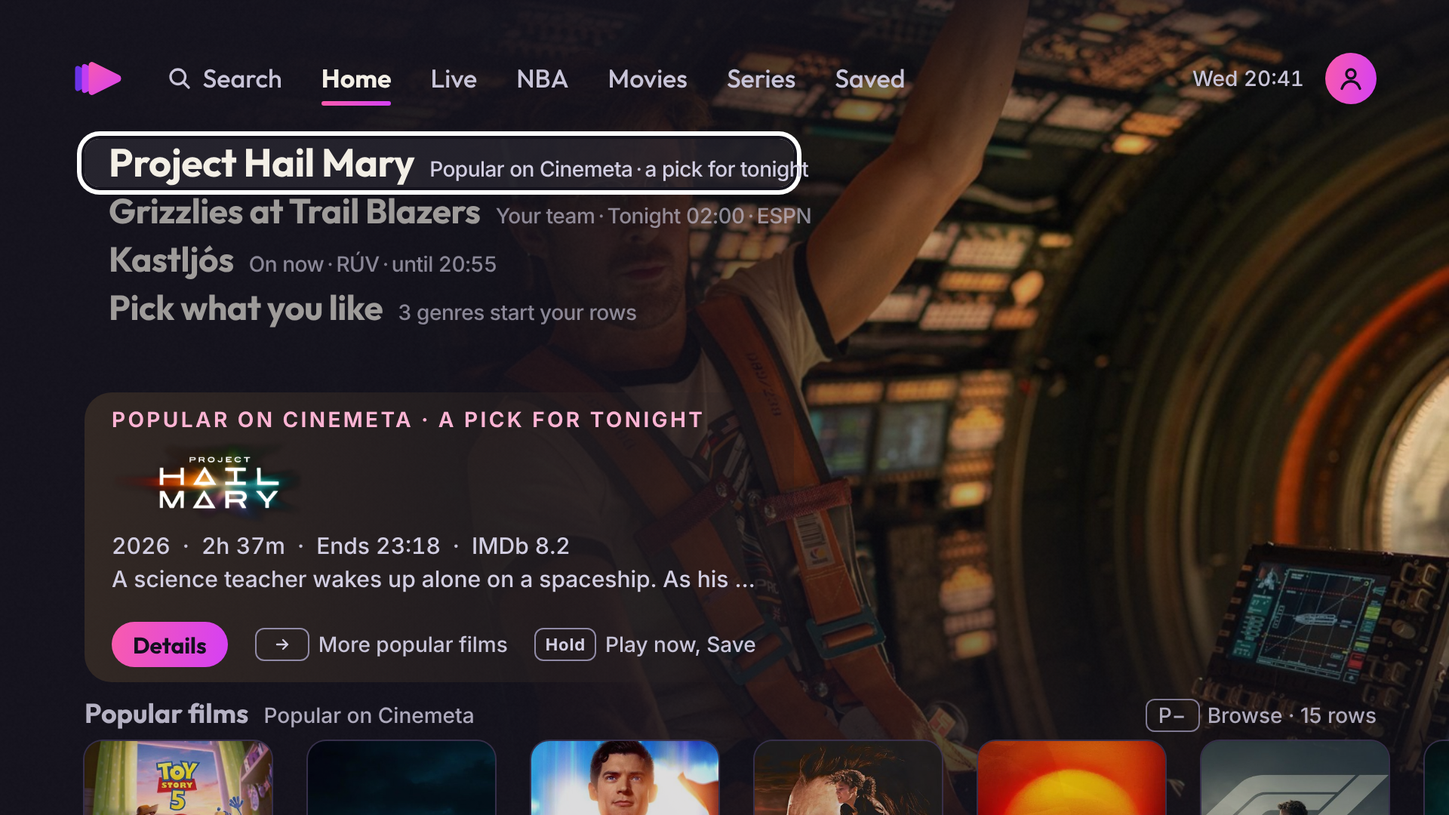
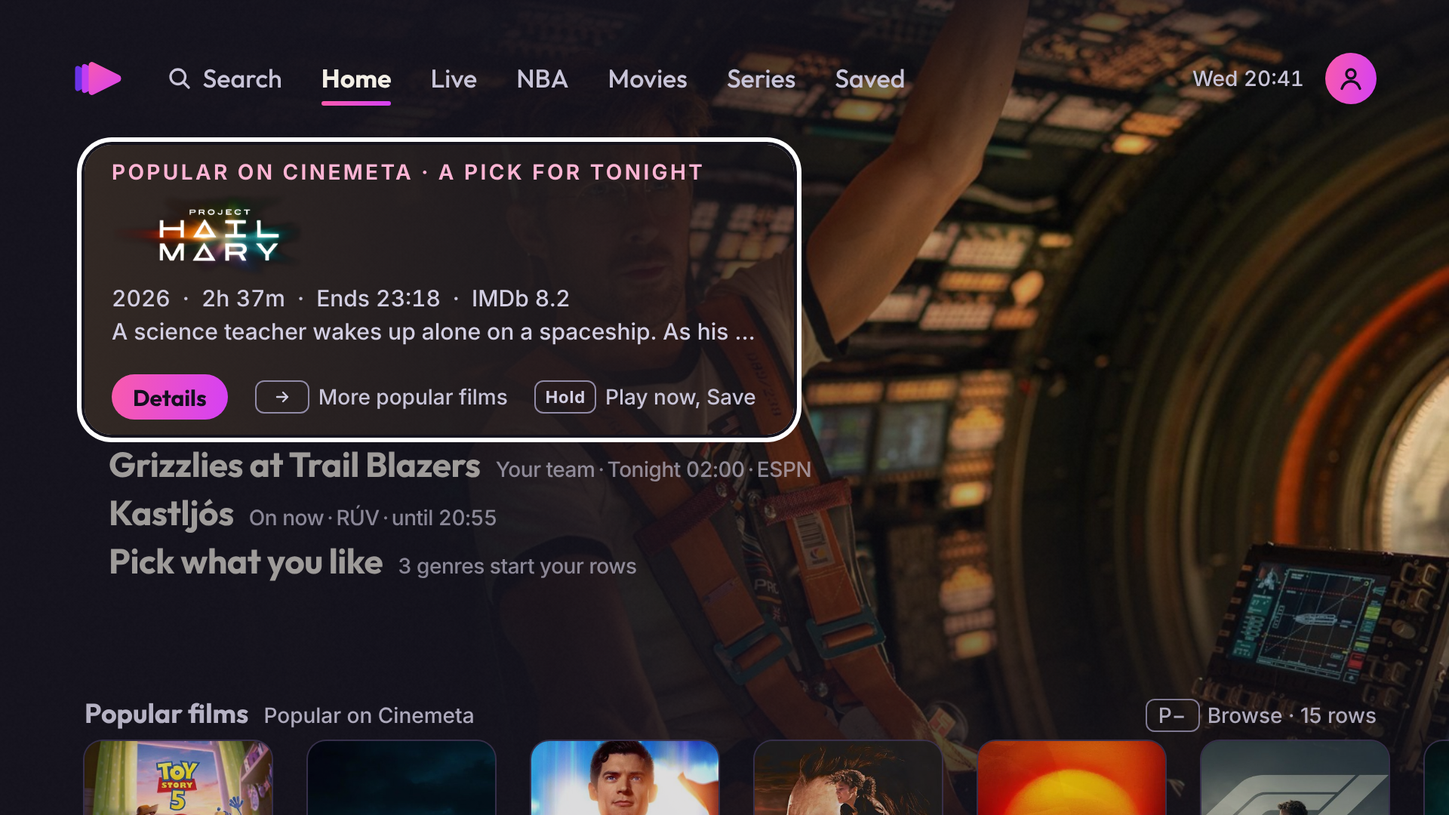
Home final v1.1: the lit line opens into its card in place (the owner's call); the lines below move a fixed 168 px with a 200 ms transform, so nothing jumps

Changed region(s): [[0.0312, 0.1528, 0.5625, 0.8556], [0.1875, 0.7639, 0.3438, 0.825], [0.375, 0.7639, 0.5312, 0.825]]

diff --git a/design/ui-v1/home-final/tools/build.js b/design/ui-v1/home-final/tools/build.js
@@ -35,31 +35,30 @@ const picture = (art, pos, capa) => `<div class="hf-bd" style="--pos:${pos}"><im
 <div class="hf-cap" style="--capa:${capa}"></div><div class="hf-sx"></div><div class="hf-sy"></div><div class="hf-st"></div><div class="hf-grain"></div>\n`;
 
 const line = (name, facts, on = false, sharp = false) => `  <div class="e${on ? ' on' : ''}${sharp ? ' sharp' : ''}"><div class="t">${name}<small>${facts}</small></div></div>\n`;
-const plateL = (o) => `<div class="plate-l${o.sharp ? ' sharp' : ''}" style="--ambt:${o.ambt}">
+const card = (o) => `  <div class="e on${o.sharp ? ' sharp' : ''}" style="--ambt:${o.ambt}">
   <div class="ey">${o.ey}</div>
   ${o.logo ? `<img class="logo" src="art/${o.logo}-logo.png" alt="${o.title}">` : `<div class="big${o.long ? ' long' : ''}">${o.title}</div>`}
   <div class="meta">${o.meta}</div>
   ${o.line ? `<div class="line">${o.line}</div>` : ''}
   ${o.p ? `<div class="bar" style="--p:${o.p}"><i></i></div>` : ''}
   <div class="hint">${o.hint}</div>
-</div>\n`;
+  </div>\n`;
 const firstPeek = (title, sub, cards) => `<div class="peek first"><div class="rt">${title}<span>${sub}</span><span class="pk"><span class="k">P−</span>Browse · 15 rows</span></div><div class="cards">${cards.join('')}</div></div>\n`;
 
 // ---------------------------------------------------------------- 1. a normal evening (Wed 20:41)
-const LINES = (lit) => [
+const LINES = (lit, cardHtml) => [
   ['Severance', `Continue${dot}S2 · E3${dot}21 min left`],
   ['Slow Horses', `New this week${dot}S6 · E4<span class="count">3 new</span>`],
   ['Breaking Bad', `Up next${dot}S3 · E7`],
   ['Heat', `A film for tonight${dot}ends ${ends('20:41', 170)}${dot}4K`],
   ['Grizzlies at Trail Blazers', `Tonight${dot}02:00${dot}ESPN`],
-].map(([n, f], i) => line(n, f, i === lit)).join('');
+].map(([n, f], i) => (i === lit ? cardHtml : line(n, f))).join('');
 
 const evening = () => head('Home, a normal evening') + `<div class="hf-amb" style="--amb:#3B5247"></div>` +
-picture('severance', '78% 30%', cap('severance', 0.30)) + topbar({ clock: 'Wed 20:41' }) + `<div class="lineup">\n${LINES(0)}</div>\n` +
-plateL({ ambt: 'rgba(59,82,71,.6)', ey: 'Continue watching', logo: 'severance', title: 'Severance',
+picture('severance', '78% 30%', cap('severance', 0.30)) + topbar({ clock: 'Wed 20:41' }) + `<div class="lineup">\n${LINES(0, card({ ambt: 'rgba(59,82,71,.6)', ey: 'Continue watching', logo: 'severance', title: 'Severance',
   meta: `<span>S2 · E3</span>${dot}<span>Who Is Alive?</span>${dot}<span>21 min left</span>${dot}<span>Ends ${ends('20:41', 21)}</span><span class="badge">4K</span>`,
   line: 'Mark, Helly, Irving and Dylan search for answers.', p: '57%',
-  hint: `<span class="pill">${PLAY}Resume</span><span>${ARROW_R}Episodes</span><span><span class="k">Hold</span>Start over, Details</span>` }) +
+  hint: `<span class="pill">${PLAY}Resume</span><span>${ARROW_R}Episodes</span><span><span class="k">Hold</span>Start over, Details</span>` }))}</div>\n` +
 firstPeek('Comedy for you', 'Because you watch Always Sunny, The Office and 12 more', ['niceguys', 'gemstones', 'hotfuzz', 'friendship', 'wwdits', 'gamenight', 'palmsprings'].map((f) => poster(f))) + foot;
 
 // ---------------------------------------------------------------- shared: the rows state
@@ -117,11 +116,12 @@ const gameNight = () => head('Home, game night', `
 <div class="crest c2"><img src="art/por.png" alt=""><div class="n"><b>Trail Blazers</b><span>1-3 · as of tip-off</span></div></div>
 <div class="score"><div class="clock"><span class="q">ON NOW</span></div><div class="plate"><span class="s">${EYE}Score hidden</span></div></div>
 <div class="lineup">
-${line('Grizzlies at Trail Blazers', `Game night${dot}<span class="live">Live</span>`, true, true)}${line('Severance', `Continue${dot}S2 · E3${dot}21 min left`)}${line('Slow Horses', `New this week${dot}S6 · E4<span class="count">3 new</span>`)}${line('It’s Always Sunny', `Short${dot}S18 · E10${dot}25 min`)}${line('Nuggets at Thunder', `Also live${dot}Prime Video`)}</div>
-` + plateL({ sharp: true, ambt: 'rgba(18,23,63,.7)', ey: `Game night <span class="live">Live</span>`, title: 'Grizzlies at Trail Blazers', long: true,
+` + card({ sharp: true, ambt: 'rgba(18,23,63,.7)', ey: `Game night <span class="live">Live</span>`, title: 'Grizzlies at Trail Blazers', long: true,
   meta: `<span>On now</span>${dot}<span>ESPN</span><span class="badge">4K</span>${dot}${EYE}<span>Score hidden</span>`,
   line: '3rd in the West · 3 in a row · Morant 27.8 · as of tip-off',
   hint: `<span class="pill">${PLAY}Watch live</span><span>${ARROW_R}From tip-off</span><span><span class="k">Hold</span>Reveal, more</span>` }) +
+`${line('Severance', `Continue${dot}S2 · E3${dot}21 min left`)}${line('Slow Horses', `New this week${dot}S6 · E4<span class="count">3 new</span>`)}${line('It’s Always Sunny', `Short${dot}S18 · E10${dot}25 min`)}${line('Nuggets at Thunder', `Also live${dot}Prime Video`)}</div>
+` +
 firstPeek('Tonight in the NBA', '6 games · 1 live · 2 final · 3 later', [gameCard({ mine: true, ta: '#5D76A9', st: 'Your team · live', a: 'mem', an: 'Grizzlies', sep: 'at', h: 'por', hn: 'Blazers', ch: 'ESPN · 4K', pl: 'Score hidden' }), gameCard({ ta: '#FEC524', st: 'Live', a: 'den', an: 'Nuggets', sep: 'at', h: 'okc', hn: 'Thunder', ch: 'Prime Video', pl: '3RD' }), gameCard({ ta: '#BA9653', st: 'Final', a: 'bos', an: 'Celtics', sep: 'at', h: 'ny', hn: 'Knicks', ch: '', pl: '112 – 104' })]) + foot;
 
 // ---------------------------------------------------------------- 5. the library: Movies, Comedy, scrolled deep (#313 is the first cell of its row: 313 = 52 x 6 + 1)
@@ -136,11 +136,12 @@ const library = () => head('Movies: Comedy, scrolled deep', `.grid { --gy: -96px
 // ---------------------------------------------------------------- 6. cold start: a new user, no history (the meta shortened by the rule: year · length · Ends · rating)
 const coldStart = () => head('Home, first evening: no history yet') + `<div class="hf-amb" style="--amb:#4A3A2A"></div>` + picture('hailmary', '60% 30%', cap('hailmary', 0.30)) + topbar({ clock: 'Wed 20:41' }) + `
 <div class="lineup">
-${line('Project Hail Mary', `Popular on Cinemeta${dot}a pick for tonight`, true)}${line('Grizzlies at Trail Blazers', `Your team${dot}Tonight 02:00${dot}ESPN`)}${line('Kastljós', `On now${dot}RÚV${dot}until 20:55`)}${line('Pick what you like', `3 genres start your rows`)}</div>
-` + plateL({ ambt: 'rgba(74,58,42,.55)', ey: 'Popular on Cinemeta · a pick for tonight', logo: 'hailmary', title: 'Project Hail Mary',
+` + card({ ambt: 'rgba(74,58,42,.55)', ey: 'Popular on Cinemeta · a pick for tonight', logo: 'hailmary', title: 'Project Hail Mary',
   meta: `<span>2026</span>${dot}<span>2h 37m</span>${dot}<span>Ends ${ends('20:41', 157)}</span>${dot}<span>IMDb 8.2</span>`,
   line: 'A science teacher wakes up alone on a spaceship. As his memory returns, he uncovers an impossible task.',
   hint: `<span class="pill noicon">Details</span><span>${ARROW_R}More popular films</span><span><span class="k">Hold</span>Play now, Save</span>` }) +
+`${line('Grizzlies at Trail Blazers', `Your team${dot}Tonight 02:00${dot}ESPN`)}${line('Kastljós', `On now${dot}RÚV${dot}until 20:55`)}${line('Pick what you like', `3 genres start your rows`)}</div>
+` +
 firstPeek('Popular films', 'Popular on Cinemeta', ['toystory5', 'weapons', 'superman', 'onebattle', 'sinners', 'f1', 'mickey17'].map((f) => poster(f))) + foot;
 
 // ---------------------------------------------------------------- 7. the rows: Channels (a channel has no picture: its logo on a flat field)
@@ -199,7 +200,7 @@ peek('Comedy for you', 'Because you watch Always Sunny, The Office and 12 more',
 const pages = { '01-evening.html': evening(), '02-rows-comedy.html': rowsComedy(), '03-rows-blend.html': rowsBlend(), '04-game-night.html': gameNight(), '05-library-comedy.html': library(), '06-cold-start.html': coldStart(), '07-rows-channels.html': channel(), '08-loading-missing-art.html': loading(), '09-rows-continue.html': rowsContinue(), '10-rows-nba.html': rowsNba() };
 for (const [f, html] of Object.entries(pages)) fs.writeFileSync(path.join(root, f), html);
 fs.writeFileSync(path.join(root, 'tools', 'pages.json'), JSON.stringify([
-  { file: '01-evening.html', title: 'A normal evening', note: 'Wed 20:41 · the Marquee: five lines in fixed slots (the game is tonight), the lit line’s plate, the first row peeking; P− jumps to the rows' },
+  { file: '01-evening.html', title: 'A normal evening', note: 'Wed 20:41 · the Marquee: five lines (the game is tonight), the lit line open as its card in place, the first row peeking; P− jumps to the rows' },
   { file: '02-rows-comedy.html', title: 'The rows: Comedy for you', note: 'Down from the lineup · films and series together · the picture answers the poster · the row index on its backing' },
   { file: '03-rows-blend.html', title: 'The rows: Anime comedy', note: 'A blend row: two of his genres together, named plainly, marked New row for a week' },
   { file: '04-game-night.html', title: 'Game night', note: 'Thu 03:12 · Grizzlies at Trail Blazers live, shield on: ON NOW, no clock, records as of tip-off' },

diff --git a/design/ui-v1/home-final/home-final.css b/design/ui-v1/home-final/home-final.css
@@ -40,30 +40,24 @@ html, body { margin: 0; width: 960px; height: 540px; overflow: hidden; backgroun
 .count { display: inline-flex; align-items: center; height: 20px; padding: 0 8px; border-radius: 999px; background: var(--a-surface-2); color: var(--a-text-1); font: 650 12px/1 var(--a-font-text); margin-left: 8px; letter-spacing: .02em; }
 .dot { color: var(--a-text-3); margin: 0 2px; }
 
-/* ---- the lineup: six lines in fixed slots (pitch 38 from y 92), nothing moves on a press ---- */
+/* ---- the lineup: lines in fixed 32 px slots; the lit line opens into its card in place (fixed 192 px, so every press moves the lines below by the same 168 px, animated with a 200 ms transform) ---- */
 .lineup { left: 56px; top: 92px; width: 470px; display: flex; flex-direction: column; gap: 0; }
 .e { position: relative; height: 32px; box-sizing: border-box; padding: 2px 16px; border-radius: 10px; opacity: .62; display: flex; align-items: center; }
 .e .t { font: 700 23px/26px var(--a-font-display); color: var(--a-text-1); white-space: nowrap; letter-spacing: -.01em; display: flex; align-items: baseline; }
 .e .t small { font: 500 14px/18px var(--a-font-text); color: var(--a-text-2); margin-left: 10px; font-variant-numeric: tabular-nums; display: inline-flex; align-items: center; }
-.e.on { opacity: 1; box-shadow: var(--a-focus-ring); background: linear-gradient(90deg, var(--ambt, rgba(45,43,53,.7)), rgba(45,43,53,.5)); }
-.e.on .t { font-size: 26px; }
+.e.on { opacity: 1; display: block; height: 192px; margin: 4px 0; padding: 10px 18px; border-radius: 18px; box-shadow: var(--a-focus-ring); background: linear-gradient(90deg, var(--ambt, rgba(21,19,29,.45)), rgba(21,19,29,.22)); overflow: hidden; }
+.e.on .ey { font: 650 14px/16px var(--a-font-text); letter-spacing: .12em; text-transform: uppercase; color: var(--a-pink-text); display: flex; align-items: center; gap: 10px; white-space: nowrap; }
+.e.on .logo { display: block; height: 56px; max-width: 340px; width: auto; object-fit: contain; object-position: left center; margin: 6px 0 4px; }
+.e.on .big { font: 700 34px/40px var(--a-font-display); color: var(--a-text-1); margin: 8px 0 8px; letter-spacing: -.01em; white-space: nowrap; }
+.e.on .big.long { font-size: 30px; }
+.e.on .meta { display: flex; align-items: center; gap: 6px; font: 500 15px/20px var(--a-font-text); color: var(--a-text-2); white-space: nowrap; font-variant-numeric: tabular-nums; }
+.e.on .line { font: 500 15px/20px var(--a-font-text); color: var(--a-text-2); margin-top: 2px; max-width: 434px; white-space: nowrap; overflow: hidden; text-overflow: ellipsis; }
+.e.on .bar { width: 280px; height: 4px; border-radius: 2px; background: var(--a-surface-2); margin-top: 8px; overflow: hidden; }
+.e.on .bar i { display: block; height: 100%; width: var(--p, 40%); background: var(--a-grad); border-radius: 2px; }
+.e.on .hint { position: absolute; left: 18px; bottom: 10px; }
 .e.on.sharp { border-radius: 6px; transform: skewX(-12deg); transform-origin: bottom left; }
 .e.on.sharp > * { transform: skewX(12deg); }
-
-/* the lit line's plate: fixed at y 330-506, the card of whatever line is lit (logo ink 56, the facts, the verb) */
-.plate-l { left: 56px; top: 260px; width: 470px; height: 192px; box-sizing: border-box; padding: 10px 18px 10px; border-radius: 18px; background: linear-gradient(90deg, var(--ambt, rgba(21,19,29,.45)), rgba(21,19,29,.22)); }
-.plate-l .ey { font: 650 14px/16px var(--a-font-text); letter-spacing: .12em; text-transform: uppercase; color: var(--a-pink-text); display: flex; align-items: center; gap: 10px; white-space: nowrap; }
-.plate-l .logo { display: block; height: 56px; max-width: 340px; width: auto; object-fit: contain; object-position: left center; margin: 6px 0 4px; }
-.plate-l .big { font: 700 34px/40px var(--a-font-display); color: var(--a-text-1); margin: 8px 0 8px; letter-spacing: -.01em; white-space: nowrap; }
-.plate-l .big.long { font-size: 30px; }
-.plate-l .meta { display: flex; align-items: center; gap: 6px; font: 500 15px/20px var(--a-font-text); color: var(--a-text-2); white-space: nowrap; font-variant-numeric: tabular-nums; }
-.plate-l .line { font: 500 15px/20px var(--a-font-text); color: var(--a-text-2); margin-top: 2px; max-width: 434px; white-space: nowrap; overflow: hidden; text-overflow: ellipsis; }
-.plate-l .bar { width: 280px; height: 4px; border-radius: 2px; background: var(--a-surface-2); margin-top: 8px; overflow: hidden; }
-.plate-l .bar i { display: block; height: 100%; width: var(--p, 40%); background: var(--a-grad); border-radius: 2px; }
-.plate-l .hint { position: absolute; left: 18px; bottom: 10px; }
-.plate-l.sharp { border-radius: 6px; transform: skewX(-12deg); transform-origin: bottom left; }
-.plate-l.sharp > * { transform: skewX(12deg); }
-.plate-l.sharp .hint { left: 30px; }
+.e.on.sharp .hint { left: 30px; }
 .more { right: 48px; bottom: 36px; display: flex; align-items: center; gap: 8px; font: 500 14px/18px var(--a-font-text); color: var(--a-text-3); white-space: nowrap; }
 .more.left { right: auto; left: 56px; bottom: 20px; }
 .more svg { width: 16px; height: 16px; fill: none; stroke: currentColor; stroke-width: 2.2; stroke-linecap: round; stroke-linejoin: round; flex: none; }

diff --git a/design/ui-v1/home-final/04-game-night.html b/design/ui-v1/home-final/04-game-night.html
@@ -21,19 +21,18 @@
 <div class="crest c2"><img src="art/por.png" alt=""><div class="n"><b>Trail Blazers</b><span>1-3 · as of tip-off</span></div></div>
 <div class="score"><div class="clock"><span class="q">ON NOW</span></div><div class="plate"><span class="s"><svg class="eyeoff" viewBox="0 0 24 24"><path d="M3 3l18 18M10.6 5.2A9.8 9.8 0 0 1 12 5c5 0 8.5 4.2 9.5 7a13 13 0 0 1-2.4 3.7M6.4 6.6A13 13 0 0 0 2.5 12c1 2.8 4.5 7 9.5 7a9.6 9.6 0 0 0 4-.9M9.9 9.9a3 3 0 0 0 4.2 4.2"/></svg>Score hidden</span></div></div>
 <div class="lineup">
-  <div class="e on sharp"><div class="t">Grizzlies at Trail Blazers<small>Game night<span class="dot">·</span><span class="live">Live</span></small></div></div>
-  <div class="e"><div class="t">Severance<small>Continue<span class="dot">·</span>S2 · E3<span class="dot">·</span>21 min left</small></div></div>
-  <div class="e"><div class="t">Slow Horses<small>New this week<span class="dot">·</span>S6 · E4<span class="count">3 new</span></small></div></div>
-  <div class="e"><div class="t">It’s Always Sunny<small>Short<span class="dot">·</span>S18 · E10<span class="dot">·</span>25 min</small></div></div>
-  <div class="e"><div class="t">Nuggets at Thunder<small>Also live<span class="dot">·</span>Prime Video</small></div></div>
-</div>
-<div class="plate-l sharp" style="--ambt:rgba(18,23,63,.7)">
+  <div class="e on sharp" style="--ambt:rgba(18,23,63,.7)">
   <div class="ey">Game night <span class="live">Live</span></div>
   <div class="big long">Grizzlies at Trail Blazers</div>
   <div class="meta"><span>On now</span><span class="dot">·</span><span>ESPN</span><span class="badge">4K</span><span class="dot">·</span><svg class="eyeoff" viewBox="0 0 24 24"><path d="M3 3l18 18M10.6 5.2A9.8 9.8 0 0 1 12 5c5 0 8.5 4.2 9.5 7a13 13 0 0 1-2.4 3.7M6.4 6.6A13 13 0 0 0 2.5 12c1 2.8 4.5 7 9.5 7a9.6 9.6 0 0 0 4-.9M9.9 9.9a3 3 0 0 0 4.2 4.2"/></svg><span>Score hidden</span></div>
   <div class="line">3rd in the West · 3 in a row · Morant 27.8 · as of tip-off</div>
   
   <div class="hint"><span class="pill"><svg viewBox="0 0 24 24"><path d="M6 4l14 8-14 8z"/></svg>Watch live</span><span><span class="k"><svg viewBox="0 0 24 24"><path d="M5 12h14M13 6l6 6-6 6"/></svg></span>From tip-off</span><span><span class="k">Hold</span>Reveal, more</span></div>
+  </div>
+  <div class="e"><div class="t">Severance<small>Continue<span class="dot">·</span>S2 · E3<span class="dot">·</span>21 min left</small></div></div>
+  <div class="e"><div class="t">Slow Horses<small>New this week<span class="dot">·</span>S6 · E4<span class="count">3 new</span></small></div></div>
+  <div class="e"><div class="t">It’s Always Sunny<small>Short<span class="dot">·</span>S18 · E10<span class="dot">·</span>25 min</small></div></div>
+  <div class="e"><div class="t">Nuggets at Thunder<small>Also live<span class="dot">·</span>Prime Video</small></div></div>
 </div>
 <div class="peek first"><div class="rt">Tonight in the NBA<span>6 games · 1 live · 2 final · 3 later</span><span class="pk"><span class="k">P−</span>Browse · 15 rows</span></div><div class="cards"><div class="gc" style="--ta:#5D76A9"><div class="ed"></div><div class="st mine">Your team · live</div>
   <div class="tm"><span class="cr"><img src="art/mem.png" alt=""></span><b>Grizzlies</b><span class="vs">at</span><span class="cr"><img src="art/por.png" alt=""></span><b>Blazers</b></div>

diff --git a/design/ui-v1/home-final/01-evening.html b/design/ui-v1/home-final/01-evening.html
@@ -11,19 +11,18 @@
   <div class="tb-r"><span>Wed 20:41</span><span class="avatar"><svg viewBox="0 0 24 24"><circle cx="12" cy="8" r="4"/><path d="M4 21c1.4-4.4 4.4-6.5 8-6.5s6.6 2.1 8 6.5"/></svg></span></div>
 </div>
 <div class="lineup">
-  <div class="e on"><div class="t">Severance<small>Continue<span class="dot">·</span>S2 · E3<span class="dot">·</span>21 min left</small></div></div>
-  <div class="e"><div class="t">Slow Horses<small>New this week<span class="dot">·</span>S6 · E4<span class="count">3 new</span></small></div></div>
-  <div class="e"><div class="t">Breaking Bad<small>Up next<span class="dot">·</span>S3 · E7</small></div></div>
-  <div class="e"><div class="t">Heat<small>A film for tonight<span class="dot">·</span>ends 23:31<span class="dot">·</span>4K</small></div></div>
-  <div class="e"><div class="t">Grizzlies at Trail Blazers<small>Tonight<span class="dot">·</span>02:00<span class="dot">·</span>ESPN</small></div></div>
-</div>
-<div class="plate-l" style="--ambt:rgba(59,82,71,.6)">
+  <div class="e on" style="--ambt:rgba(59,82,71,.6)">
   <div class="ey">Continue watching</div>
   <img class="logo" src="art/severance-logo.png" alt="Severance">
   <div class="meta"><span>S2 · E3</span><span class="dot">·</span><span>Who Is Alive?</span><span class="dot">·</span><span>21 min left</span><span class="dot">·</span><span>Ends 21:02</span><span class="badge">4K</span></div>
   <div class="line">Mark, Helly, Irving and Dylan search for answers.</div>
   <div class="bar" style="--p:57%"><i></i></div>
   <div class="hint"><span class="pill"><svg viewBox="0 0 24 24"><path d="M6 4l14 8-14 8z"/></svg>Resume</span><span><span class="k"><svg viewBox="0 0 24 24"><path d="M5 12h14M13 6l6 6-6 6"/></svg></span>Episodes</span><span><span class="k">Hold</span>Start over, Details</span></div>
+  </div>
+  <div class="e"><div class="t">Slow Horses<small>New this week<span class="dot">·</span>S6 · E4<span class="count">3 new</span></small></div></div>
+  <div class="e"><div class="t">Breaking Bad<small>Up next<span class="dot">·</span>S3 · E7</small></div></div>
+  <div class="e"><div class="t">Heat<small>A film for tonight<span class="dot">·</span>ends 23:31<span class="dot">·</span>4K</small></div></div>
+  <div class="e"><div class="t">Grizzlies at Trail Blazers<small>Tonight<span class="dot">·</span>02:00<span class="dot">·</span>ESPN</small></div></div>
 </div>
 <div class="peek first"><div class="rt">Comedy for you<span>Because you watch Always Sunny, The Office and 12 more</span><span class="pk"><span class="k">P−</span>Browse · 15 rows</span></div><div class="cards"><div class="poster"><img src="art/niceguys-poster.jpg" alt=""></div><div class="poster"><img src="art/gemstones-poster.jpg" alt=""></div><div class="poster"><img src="art/hotfuzz-poster.jpg" alt=""></div><div class="poster"><img src="art/friendship-poster.jpg" alt=""></div><div class="poster"><img src="art/wwdits-poster.jpg" alt=""></div><div class="poster"><img src="art/gamenight-poster.jpg" alt=""></div><div class="poster"><img src="art/palmsprings-poster.jpg" alt=""></div></div></div>
 </div></body></html>

diff --git a/design/ui-v1/home-final/06-cold-start.html b/design/ui-v1/home-final/06-cold-start.html
@@ -12,18 +12,17 @@
 </div>
 
 <div class="lineup">
-  <div class="e on"><div class="t">Project Hail Mary<small>Popular on Cinemeta<span class="dot">·</span>a pick for tonight</small></div></div>
-  <div class="e"><div class="t">Grizzlies at Trail Blazers<small>Your team<span class="dot">·</span>Tonight 02:00<span class="dot">·</span>ESPN</small></div></div>
-  <div class="e"><div class="t">Kastljós<small>On now<span class="dot">·</span>RÚV<span class="dot">·</span>until 20:55</small></div></div>
-  <div class="e"><div class="t">Pick what you like<small>3 genres start your rows</small></div></div>
-</div>
-<div class="plate-l" style="--ambt:rgba(74,58,42,.55)">
+  <div class="e on" style="--ambt:rgba(74,58,42,.55)">
   <div class="ey">Popular on Cinemeta · a pick for tonight</div>
   <img class="logo" src="art/hailmary-logo.png" alt="Project Hail Mary">
   <div class="meta"><span>2026</span><span class="dot">·</span><span>2h 37m</span><span class="dot">·</span><span>Ends 23:18</span><span class="dot">·</span><span>IMDb 8.2</span></div>
   <div class="line">A science teacher wakes up alone on a spaceship. As his memory returns, he uncovers an impossible task.</div>
   
   <div class="hint"><span class="pill noicon">Details</span><span><span class="k"><svg viewBox="0 0 24 24"><path d="M5 12h14M13 6l6 6-6 6"/></svg></span>More popular films</span><span><span class="k">Hold</span>Play now, Save</span></div>
+  </div>
+  <div class="e"><div class="t">Grizzlies at Trail Blazers<small>Your team<span class="dot">·</span>Tonight 02:00<span class="dot">·</span>ESPN</small></div></div>
+  <div class="e"><div class="t">Kastljós<small>On now<span class="dot">·</span>RÚV<span class="dot">·</span>until 20:55</small></div></div>
+  <div class="e"><div class="t">Pick what you like<small>3 genres start your rows</small></div></div>
 </div>
 <div class="peek first"><div class="rt">Popular films<span>Popular on Cinemeta</span><span class="pk"><span class="k">P−</span>Browse · 15 rows</span></div><div class="cards"><div class="poster"><img src="art/toystory5-poster.jpg" alt=""></div><div class="poster"><img src="art/weapons-poster.jpg" alt=""></div><div class="poster"><img src="art/superman-poster.jpg" alt=""></div><div class="poster"><img src="art/onebattle-poster.jpg" alt=""></div><div class="poster"><img src="art/sinners-poster.jpg" alt=""></div><div class="poster"><img src="art/f1-poster.jpg" alt=""></div><div class="poster"><img src="art/mickey17-poster.jpg" alt=""></div></div></div>
 </div></body></html>

diff --git a/design/ui-v1/home-final/SPEC.md b/design/ui-v1/home-final/SPEC.md
@@ -45,7 +45,7 @@ own free key, after the catalog research of 28 Oct 2026 (section 6a); Cinemeta s
 |---|---|
 | The focused logo's ink | Logos are cropped to their alpha bounding box when fetched and cached (`tools/build.js` did it to every logo in `art/`), and the ink is 56 px tall in the lit plate; Severance now renders about 330 × 56 (`01`), against 152 × 26 before |
 | The brightness cap | Normalised by the art: alpha = clamp(1 − target / mean luminance, .10, .60), the mean from the 32 px copy's right half; target .30 on the Marquee, .22 in the rows. Severance (mean .64) gets .53, Project Hail Mary (.19) gets .10; the mocks use the measured values |
-| The list jumping | Gone: the lineup's lines sit in fixed slots (pitch 32 from y 92) and never move; the lit line gets the ring in its slot, and its facts, logo and verb live in a fixed plate at y 260–452. Compare `01` and `06`: every line keeps its place whichever is lit |
+| The list jumping | **Owner's call after v1.1's first cut:** the lit line opens into its card **in place** (as direction A did: logo, facts, line, bar, the verb pill inside the ringed line), not in a separate plate below the list ("why is there a card on the bottom?"). The jump is solved differently: the open card has a **fixed height (192 px)**, so every Up / Down moves the lines below it by exactly the same 168 px, and that move is a **200 ms transform** on the lines (translateY, no layout of anything else; the picture, the peek and the bar never move). The order never changes, the distance never changes, and the motion is smooth instead of a cut, so the eye follows (`01`, `04`, `06`) |
 | The shortening rule and `06` | `06`'s meta is now `2026 · 2h 37m · Ends 23:18 · IMDb 8.2` by the rule (section 12), inside the plate; the `Details` pill has no ▶ (the glyph is for play verbs only) |
 
 **Should fix:** the rows' backdrop stops above the posters (`.hf-sb`, a 320 px bottom scrim to canvas at 97 %);
@@ -161,7 +161,7 @@ old anime rule; the source research decides what the engine reads, and the check
     x 912, Right drawn as an arrow (never ▶), nothing printed on poster art (the end time is in the plate or the
     column), a designed no-picture area (the channel's logo on a flat field; a title without a backdrop shows its
     poster upright on a flat ground), the 600 ms rest and the normalised brightness cap, and a lineup whose lines
-    never move (fixed slots, the lit line's plate below them). From F: the hero logo (56 px of ink). From D: the
+    never move (fixed slots, the lit line opened as its card in place). From F: the hero logo (56 px of ink). From D: the
     count chip (`3 new`) and the glow (the art's colour behind the lit line and its plate, from the 32 px copy, no
     blur).
 13. **OK means one thing per surface and the line says which.** On the Marquee OK plays (`Resume`, `Play`, `Watch
@@ -325,10 +325,10 @@ are why Top rated, genre rows and anime now read TMDB (section 6a), with the Cin
 
 | Mock | State |
 |---|---|
-| `01-evening` | Wed 20:41, a game day (tip-off 02:00). The Marquee: five lines in fixed slots, `Severance · Continue · S2 · E3 · 21 min left` lit; the plate: `CONTINUE WATCHING`, the Severance logo (56 px of ink), `S2 · E3 · Who Is Alive? · 21 min left · Ends 21:02 · 4K`, the episode's line, the bar, `Resume` pill · `→ Episodes` · `Hold Start over, Details`; the other lines Slow Horses (`New this week · S6 · E4 · 3 new`), Breaking Bad (`Up next · S3 · E7`), Heat (`A film for tonight · ends 23:31 · 4K`), Grizzlies at Trail Blazers (`Tonight · 02:00 · ESPN`); the first row `Comedy for you` peeking at the bottom with `P− Browse · 15 rows` |
+| `01-evening` | Wed 20:41, a game day (tip-off 02:00). The Marquee: five lines, Severance's line open as its card in place: `CONTINUE WATCHING`, the Severance logo (56 px of ink), `S2 · E3 · Who Is Alive? · 21 min left · Ends 21:02 · 4K`, the episode's line, the bar, `Resume` pill · `→ Episodes` · `Hold Start over, Details`; the other lines Slow Horses (`New this week · S6 · E4 · 3 new`), Breaking Bad (`Up next · S3 · E7`), Heat (`A film for tonight · ends 23:31 · 4K`), Grizzlies at Trail Blazers (`Tonight · 02:00 · ESPN`); the first row `Comedy for you` peeking at the bottom with `P− Browse · 15 rows` |
 | `02-rows-comedy` | Down from the lineup (or P−): the top bar, the picture answering The Nice Guys (IMDb 7.4), the row index on its backing, row 1 `Comedy for you · Because you watch Always Sunny, The Office and 12 more` (films and series together), `Popular films` peeking |
 | `03-rows-blend` | the blend row `Anime comedy · New row · Two things you watch, together · anime + comedy`, Spy x Family lit; `Because you watched Always Sunny` peeking with TMDB's real recommendations (Platonic, Peep Show, Friday Night Dinner, Great News, 'Til Death) |
-| `04-game-night` | Thu 03:12, Grizzlies at Trail Blazers live, shield on: the two fields, `ON NOW` on the chip, `Score hidden`, both records `as of tip-off`, the fan line `as of tip-off`, `Watch live` · `→ From tip-off` · `Hold Reveal, more`; five lines (the game first); `Tonight in the NBA` peeking with the hidden game's card reading `Score hidden`; the NBA tab carries no second pill |
+| `04-game-night` | Thu 03:12, Grizzlies at Trail Blazers live, shield on: the two fields, `ON NOW` on the chip, `Score hidden`, both records `as of tip-off`, the fan line `as of tip-off`, `Watch live` · `→ From tip-off` · `Hold Reveal, more`; five lines, the game's line open as its card (the Sharp plate); `Tonight in the NBA` peeking with the hidden game's card reading `Score hidden`; the NBA tab carries no second pill |
 | `05-library-comedy` | the Movies tab, Comedy, Popular, scrolled to #313 of 3,000+ (the context line in its band, the scroll bubble, six posters a row, the focused one's title on its own plate) |
 | `06-cold-start` | a new user, no history: `Project Hail Mary · Popular on Cinemeta · a pick for tonight` lit (`Details` the primary, no ▶), `Grizzlies at Trail Blazers · Your team`, `Kastljós · On now` (a habit line, see section 3), `Pick what you like · 3 genres start your rows`; `Popular films` peeking |
 | `07-rows-channels` | the `Channels` row: a channel has no picture, so the area shows the channel's logo on a flat field in the logo's colour; the column has `Kastljós · RÚV · 1 · 20:35 – 20:55 · 14 min left · HD` and `Next · Fréttir 20:55 …`; wide channel cards (`RÚV · 1 · Kastljós · until 20:55`); `Tune` · `Hold Save channel, Open in the guide` |
@@ -362,8 +362,8 @@ Other states (no mock, the rules):
 |---|---|
 | Picture | one `<img>` 960 × 540, `object-fit: cover`, `object-position` per title (default 70 % 40 %; the subject in the right half); over it the brightness cap (bg-0 at 14 %), the left scrim (bg-0 to clear by x 770), the bottom scrim (220 px), the top scrim (120 px, for the bar), grain at 50 %; the glow `.hf-amb`: a flat radial of the art's colour at 55 % behind the lineup |
 | Top bar | the app's, y 32–72: mark, Search, Home, Live, NBA, Movies, Series, Saved, the clock, the avatar. While the game is the lit line the NBA tab carries **no** pill |
-| Lineup | x 56, y 92, 470 wide, a `[data-col]` of **fixed slots, pitch 32** (y 92, 124, 156, 188, 220): the lines never move. Four lines (Continue, New in your shows, Up next, A film for tonight), five on a game day (the game first when it is live or within 3 h of tip-off, else last); the `On now` channel line only as a habit line (a channel he tunes at the same hour on 3 of the last 7 days). Unfocused lines Outfit 700 23/26 chalk at 62 % + the facts in Inter 500 14 (`New this week · S6 · E4`), padding 2/16; the count chip (`3 new`, surface-2, 12 px 650) after the facts. The lit line: 26 px chalk at 100 %, the ring (5 px white, 2 px canvas gap), the glow colour behind it |
-| The lit line's plate | **fixed at x 56, y 260, 470 × 192**, radius 18, the glow colour at 45 % to canvas at 22 % (no ring: the ring is on the line): eyebrow 14 px caps pink-text (`CONTINUE WATCHING`, `NEW THIS WEEK`, `UP NEXT`, `A FILM FOR TONIGHT`, `GAME NIGHT`); the **logo, 56 px of ink, 340 wide at most** (Cinemeta `logo` cropped to its alpha box when fetched, chalk when black), else the name Outfit 700 34/40 (30 when longer than 18 characters); meta 15/20 text-2 with badges (section 12's shortening rule); the title's line 15/20 (one line, ellipsis at 434 px); the bar 280 × 4; the hint row at the plate's bottom: the **pill** (gradient, 30 high, ink, Outfit 700 15, the verb; a ▶ only on play verbs) · `→` key cap + word · `Hold` + words |
+| Lineup | x 56, y 92, 470 wide, a `[data-col]`; lines are 32 px slots and the lit line is its **card, 192 px, opened in place** (+ 4 px margins), so the lines under the lit one sit 168 px lower than they would and every press moves them by that same distance with a 200 ms `translateY` (the lines are one layer each; nothing else lays out). Four lines (Continue, New in your shows, Up next, A film for tonight), five on a game day (the game first when it is live or within 3 h of tip-off, else last); the `On now` channel line only as a habit line (a channel he tunes at the same hour on 3 of the last 7 days). Unfocused lines Outfit 700 23/26 chalk at 62 % + the facts in Inter 500 14 (`New this week · S6 · E4`), padding 2/16; the count chip (`3 new`, surface-2, 12 px 650) after the facts. The lit line is replaced by its card (next row) |
+| The lit line's card | **in the lit line's slot, 470 × 192**, radius 18, the ring (5 px white, 2 px canvas gap), the glow colour at 45 % to canvas at 22 %: eyebrow 14 px caps pink-text (`CONTINUE WATCHING`, `NEW THIS WEEK`, `UP NEXT`, `A FILM FOR TONIGHT`, `GAME NIGHT`); the **logo, 56 px of ink, 340 wide at most** (Cinemeta `logo` cropped to its alpha box when fetched, chalk when black), else the name Outfit 700 34/40 (30 when longer than 18 characters); meta 15/20 text-2 with badges (section 12's shortening rule); the title's line 15/20 (one line, ellipsis at 434 px); the bar 280 × 4; the hint row at the plate's bottom: the **pill** (gradient, 30 high, ink, Outfit 700 15, the verb; a ▶ only on play verbs) · `→` key cap + word · `Hold` + words |
 | The peek | y 462: the first row's title (Outfit 700 18 text-2) with its reason and, at the right (ending at x 912), `P− Browse · 15 rows`; the top 78 px of its cards at 85 % (art may bleed) |
 | Game night | the fields: away x 0 to the split, home from the split, the split at 12° at 79 % (x 758 at the top); each field the team's real primary darkened for 4.5:1 chalk (`#12173F` Memphis navy with the Beale Street blue edge; Portland `#B9302F` with its black edge); the left shade (canvas to clear by x 576) under the lineup; crests 168 in the neutral disc at x 540 and x 744, y 126, names Outfit 700 24 and the record 14 under; the score group at x 524, y 392: the chip (gradient, 56 high, 12°, `ON NOW` Barlow 800 italic 34) and the plate (`Score hidden` with the eye-off) ending before x 912; the lit line is the Sharp plate (12°) |
 | No picture | the flat field (`.flat`, the logo's colour, else bg-1) with the channel's logo 120 px tall at x 560, y 120 (the facts live in the plate or the column, never repeated on the field); for a title without a backdrop: the poster upright 156 × 234 at x 560, y 92 on the poster's colour |
@@ -391,8 +391,9 @@ captions under every poster: one-line captions cut most titles, which reads as b
 
 ## 4. The remote (every surface)
 
-**The Marquee.** Up / Down: the lineup, one line per press; the lit line's plate, logo and glow change at once (they
-are text and a flat colour), the picture after the focus rests 600 ms (a 200 ms opacity crossfade of two image
+**The Marquee.** Up / Down: the lineup, one line per press; the card closes on the line you leave and opens on the
+line you reach (its contents swap at once, they are text and a flat colour; the lines between slide 168 px in
+200 ms), the picture after the focus rests 600 ms (a 200 ms opacity crossfade of two image
 layers). Up from the first line: the top bar. **P−** (channel down): the rows, on row 1 at its remembered card, from
 any line; **P+** from the rows: the Marquee with its first line lit. **OK**: the line's one
 verb (the pill): Resume, Play, Watch live, Tune, Details (a pick), Open (the genre picker). **Right**: the line's
